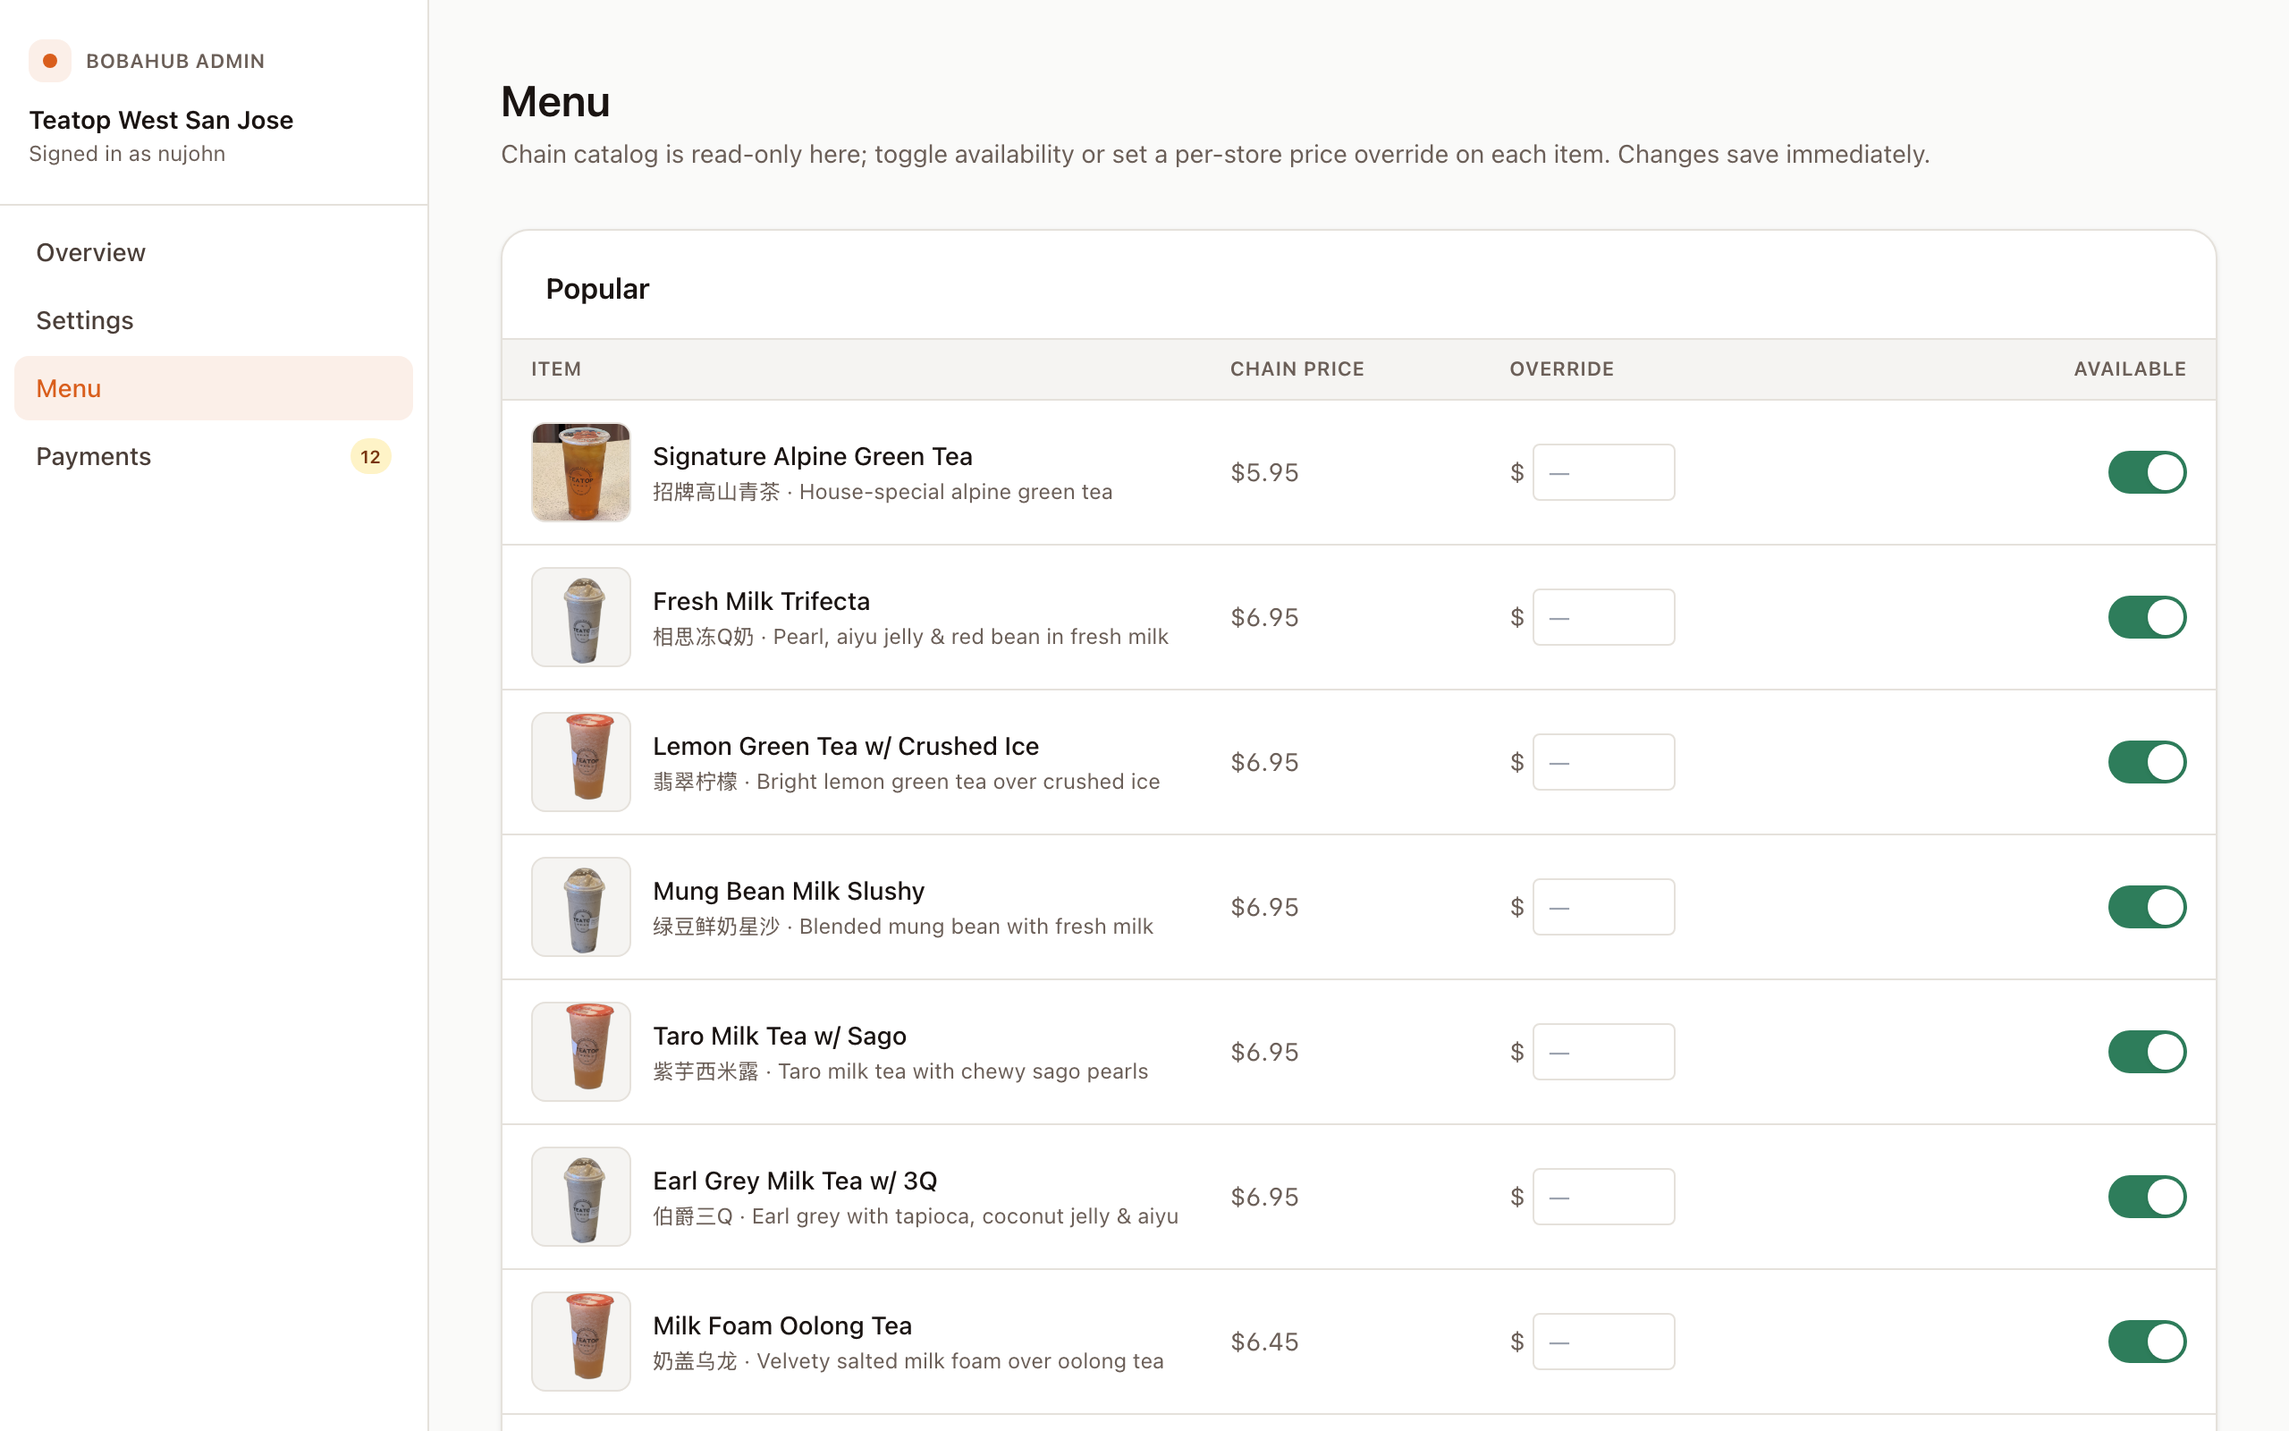
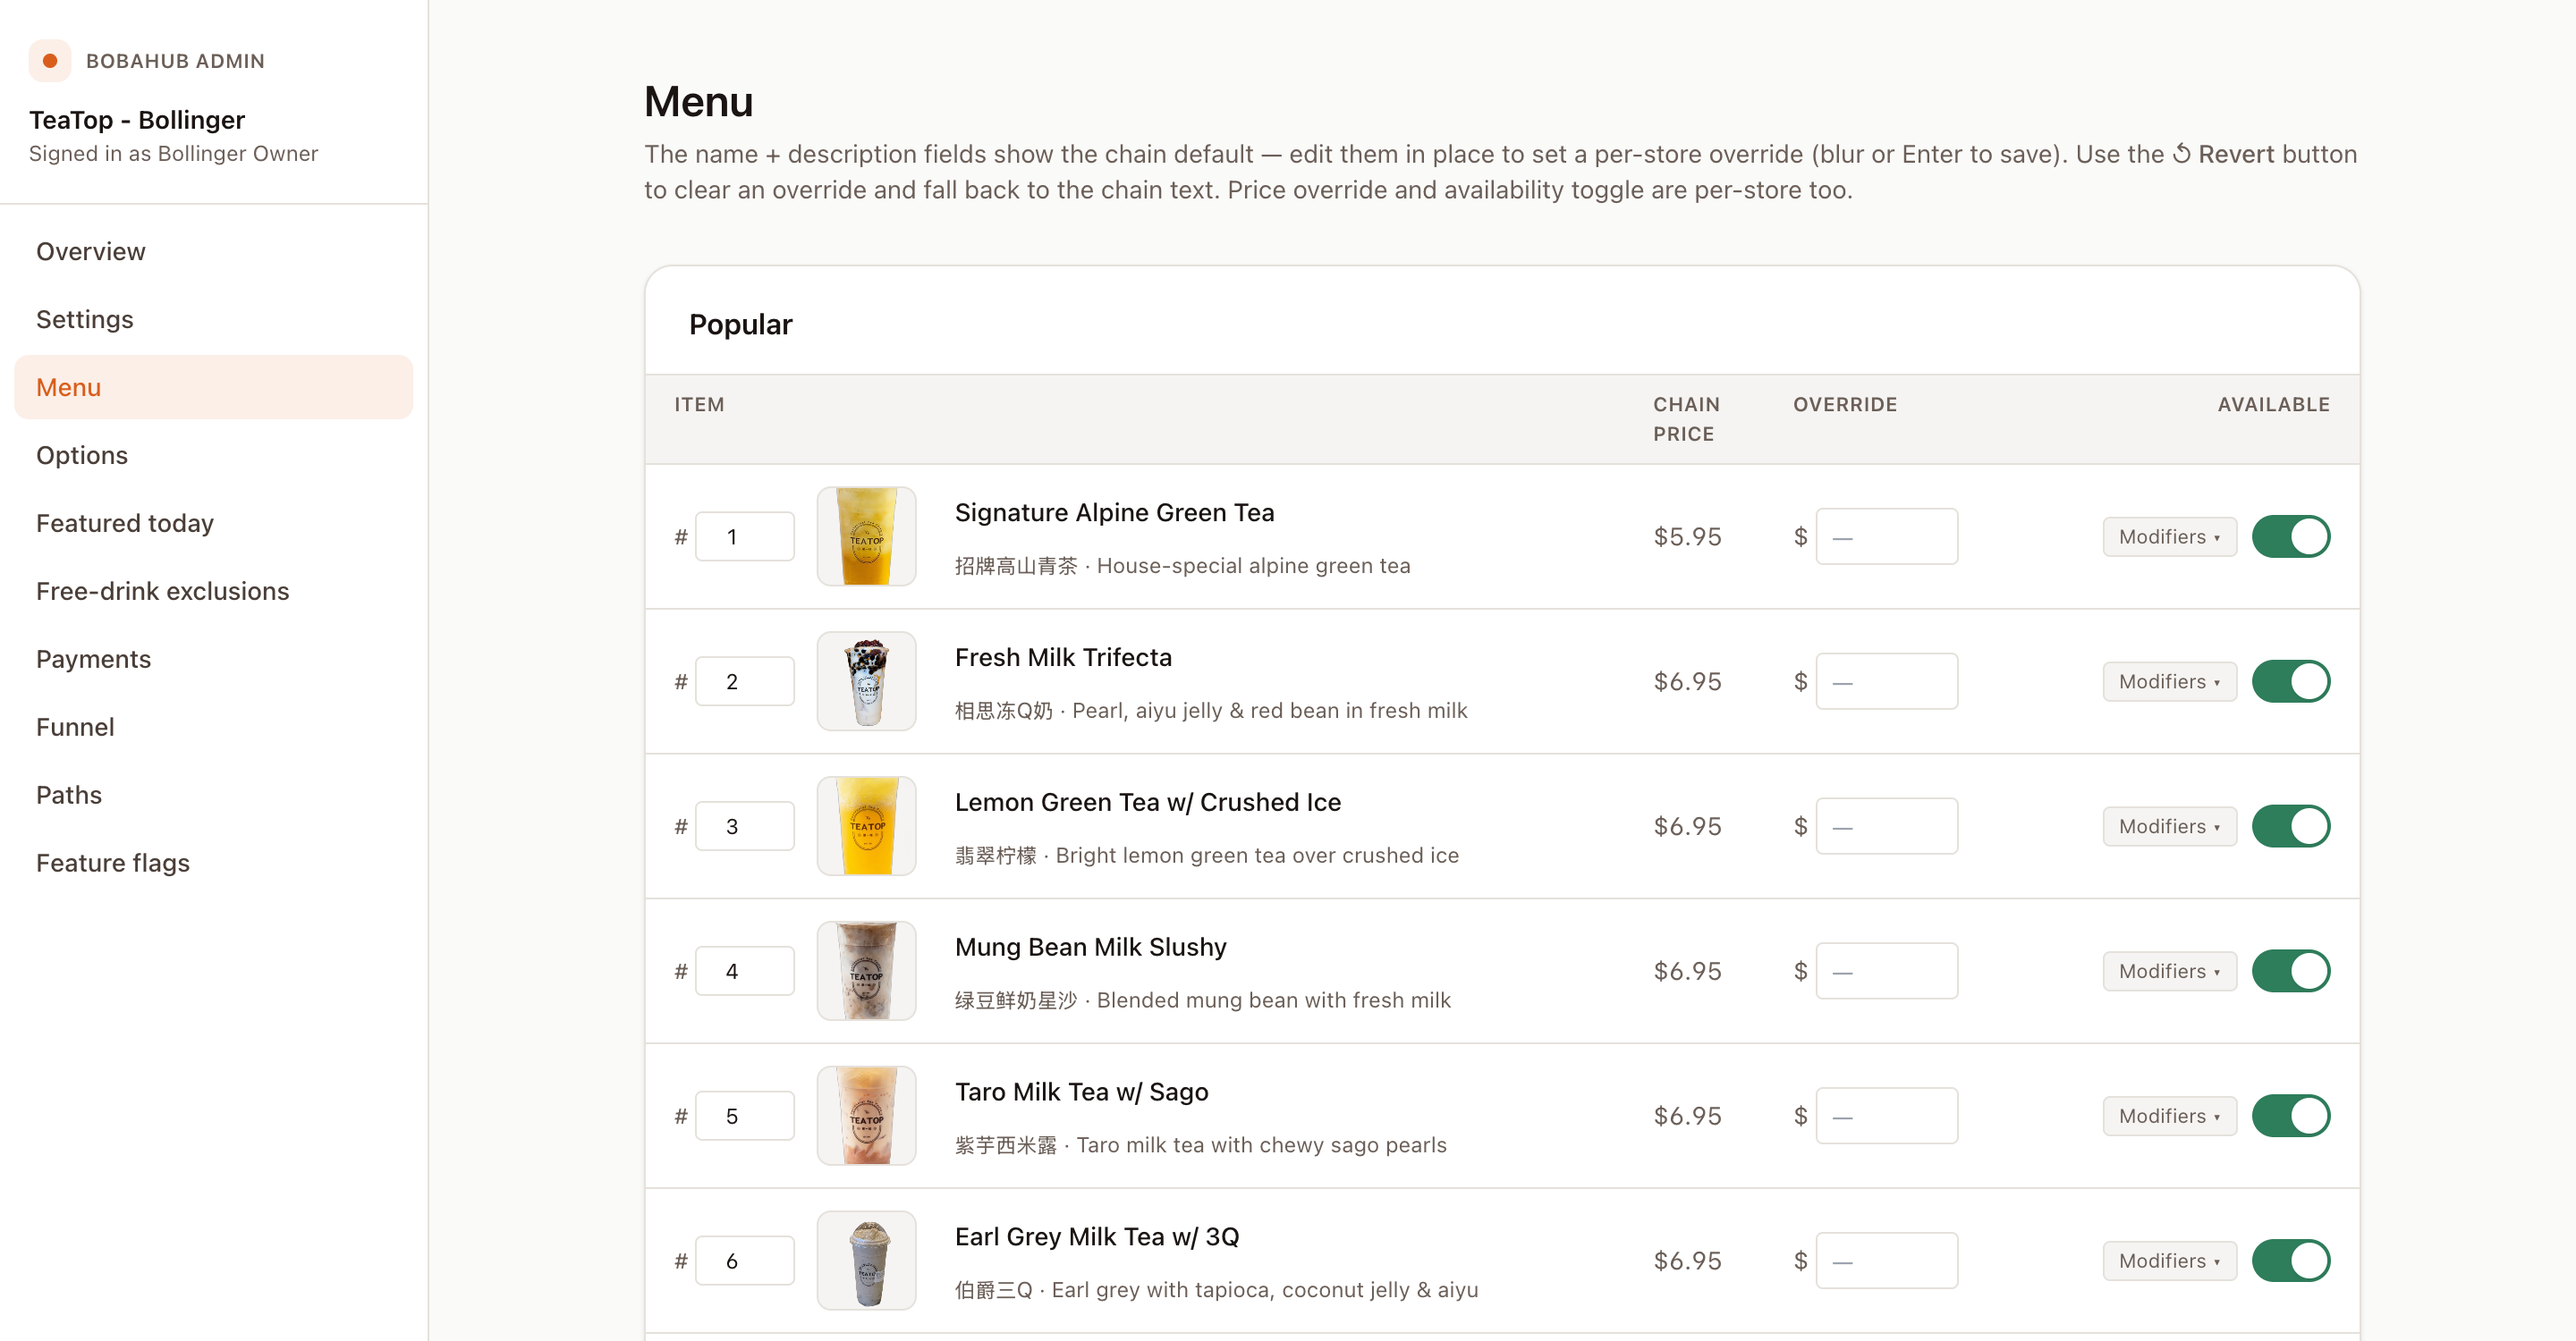
BobaHub case study: consumer phone hero + iPad/admin/web sections
- Lead with the consumer iPhone app in a portrait phone-frame hero
  (heroMode: 'phone') instead of the iPad store board.
- Reorder/expand the galleries: iPhone app, iPad counter, Admin console
  (5 screens: menu, modifiers, settings, analytics, featured), On the web.
- Add a 'wide' gallery mode (full-width, contain) for the landscape iPad
  and admin screens so the detailed UI stays readable.
- Fix web phone screenshots that letterboxed instead of filling the card:
  new 'fill' flag covers them to full height (they render at a slightly
  wider phone ratio than the native shots).
- Rename the loyalty screenshot to a fresh URL (bobahub-ios-loyalty.png)
  to dodge a poisoned edge/browser cache that was serving a broken copy
  of bobahub-ios-rewards.png.

diff --git a/website/src/data/projects.ts b/website/src/data/projects.ts
@@ -11,9 +11,15 @@ export interface Project {
     src: string;
     alt: string;
     label?: string;
-    mode?: 'default' | 'portrait';
+    mode?: 'default' | 'portrait' | 'wide';
+    // Portrait web screens are a slightly wider phone ratio than native;
+    // `fill` covers the card so they match the native cards' full height.
+    fill?: boolean;
     section?: string;
   }>;
+  // 'phone' renders the lead image in a portrait phone frame instead of
+  // the default landscape browser chrome.
+  heroMode?: 'browser' | 'phone';
   platform?: string;
   url?: string;
   urlLabel?: string;
@@ -37,21 +43,31 @@ export const projects: Project[] = [
     url: 'https://admin.bobahub.app/login',
     urlLabel: 'admin.bobahub.app',
     ctaLabel: 'See the live admin app',
-    screenshot: '/screenshots/bobahub-store-board.png',
-    screenshotAlt: 'BobaHub store orders board on iPad',
+    heroMode: 'phone',
+    screenshot: '/screenshots/bobahub-ios-home.png',
+    screenshotAlt: 'BobaHub consumer iPhone app home screen with featured drink',
     gallery: [
-      { src: '/screenshots/bobahub-ios-home.png', alt: 'BobaHub iOS app home with featured drink', label: 'Home', mode: 'portrait', section: 'iPhone app' },
+      // Consumer iPhone app first (the hero is its Home screen).
       { src: '/screenshots/bobahub-ios-menu.png', alt: 'BobaHub iOS app menu with drink cards and prices', label: 'Menu', mode: 'portrait', section: 'iPhone app' },
       { src: '/screenshots/bobahub-ios-customize.png', alt: 'BobaHub iOS app drink customization — ice and sugar level', label: 'Customize', mode: 'portrait', section: 'iPhone app' },
       { src: '/screenshots/bobahub-ios-cart.png', alt: 'BobaHub iOS app cart with subtotal, tax, and total', label: 'Cart', mode: 'portrait', section: 'iPhone app' },
       { src: '/screenshots/bobahub-ios-pay.png', alt: 'BobaHub iOS app checkout with Apple Pay payment sheet', label: 'Apple Pay', mode: 'portrait', section: 'iPhone app' },
       { src: '/screenshots/bobahub-ios-orders.png', alt: 'BobaHub iOS app order history with reorder', label: 'Orders', mode: 'portrait', section: 'iPhone app' },
-      { src: '/screenshots/bobahub-ios-rewards.png', alt: 'BobaHub iOS app loyalty rewards progress', label: 'Rewards', mode: 'portrait', section: 'iPhone app' },
+      { src: '/screenshots/bobahub-ios-loyalty.png', alt: 'BobaHub iOS app loyalty rewards progress', label: 'Rewards', mode: 'portrait', section: 'iPhone app' },
       { src: '/screenshots/bobahub-ios-profile.png', alt: 'BobaHub iOS app account profile', label: 'Profile', mode: 'portrait', section: 'iPhone app' },
-      { src: '/screenshots/bobahub-web-home.png', alt: 'BobaHub web app home with featured drink', label: 'Home', mode: 'portrait', section: 'On the web' },
-      { src: '/screenshots/bobahub-web-menu.png', alt: 'BobaHub web app menu with real drink photos and prices', label: 'Menu', mode: 'portrait', section: 'On the web' },
-      { src: '/screenshots/bobahub-web-detail.png', alt: 'BobaHub web app drink customization — ice, sugar, and toppings', label: 'Customize', mode: 'portrait', section: 'On the web' },
-      { src: '/screenshots/bobahub-web-checkout.png', alt: 'BobaHub web app checkout with pickup time and payment', label: 'Checkout', mode: 'portrait', section: 'On the web' },
+      // iPad counter app for staff.
+      { src: '/screenshots/bobahub-store-board.png', alt: 'BobaHub iPad counter app order board with New, Preparing, and Ready columns', label: 'Order board', mode: 'wide', section: 'iPad counter' },
+      // Admin console (per-store web back office).
+      { src: '/screenshots/bobahub-admin-menu.png', alt: 'BobaHub admin menu management with per-store prices and availability', label: 'Menu management', mode: 'wide', section: 'Admin console' },
+      { src: '/screenshots/bobahub-admin-options.png', alt: 'BobaHub admin modifier and option-group editor', label: 'Modifiers', mode: 'wide', section: 'Admin console' },
+      { src: '/screenshots/bobahub-admin-settings.png', alt: 'BobaHub admin store settings with tax rate and cancel window', label: 'Settings', mode: 'wide', section: 'Admin console' },
+      { src: '/screenshots/bobahub-admin-funnel.png', alt: 'BobaHub admin analytics funnel with daily event counts', label: 'Analytics', mode: 'wide', section: 'Admin console' },
+      { src: '/screenshots/bobahub-admin-featured.png', alt: 'BobaHub admin featured-drink merchandising editor', label: 'Featured drink', mode: 'wide', section: 'Admin console' },
+      // Mobile web storefront.
+      { src: '/screenshots/bobahub-web-home.png', alt: 'BobaHub web app home with featured drink', label: 'Home', mode: 'portrait', fill: true, section: 'On the web' },
+      { src: '/screenshots/bobahub-web-menu.png', alt: 'BobaHub web app menu with real drink photos and prices', label: 'Menu', mode: 'portrait', fill: true, section: 'On the web' },
+      { src: '/screenshots/bobahub-web-detail.png', alt: 'BobaHub web app drink customization with ice, sugar, and toppings', label: 'Customize', mode: 'portrait', fill: true, section: 'On the web' },
+      { src: '/screenshots/bobahub-web-checkout.png', alt: 'BobaHub web app checkout with pickup time and payment', label: 'Checkout', mode: 'portrait', fill: true, section: 'On the web' },
     ],
     platform: 'iOS · iPad · Web · Payments',
   },
